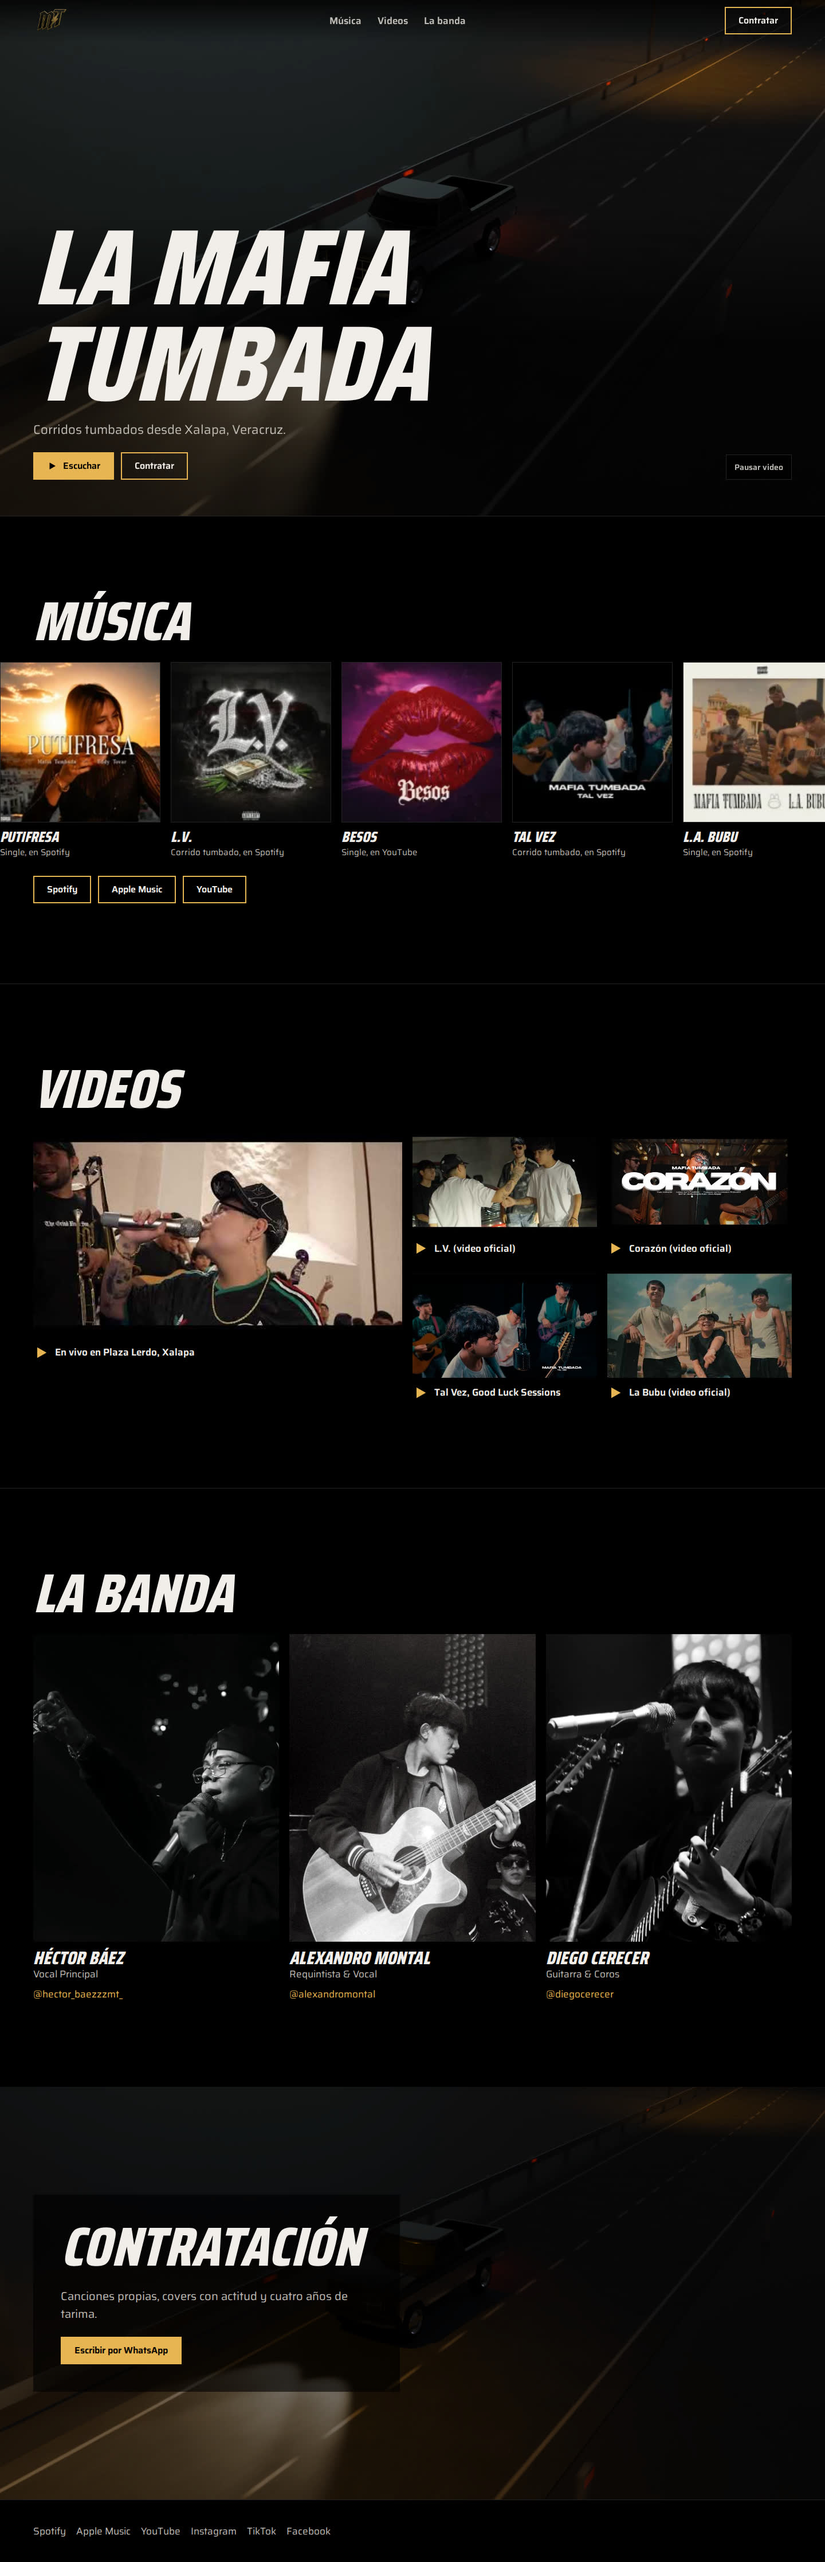
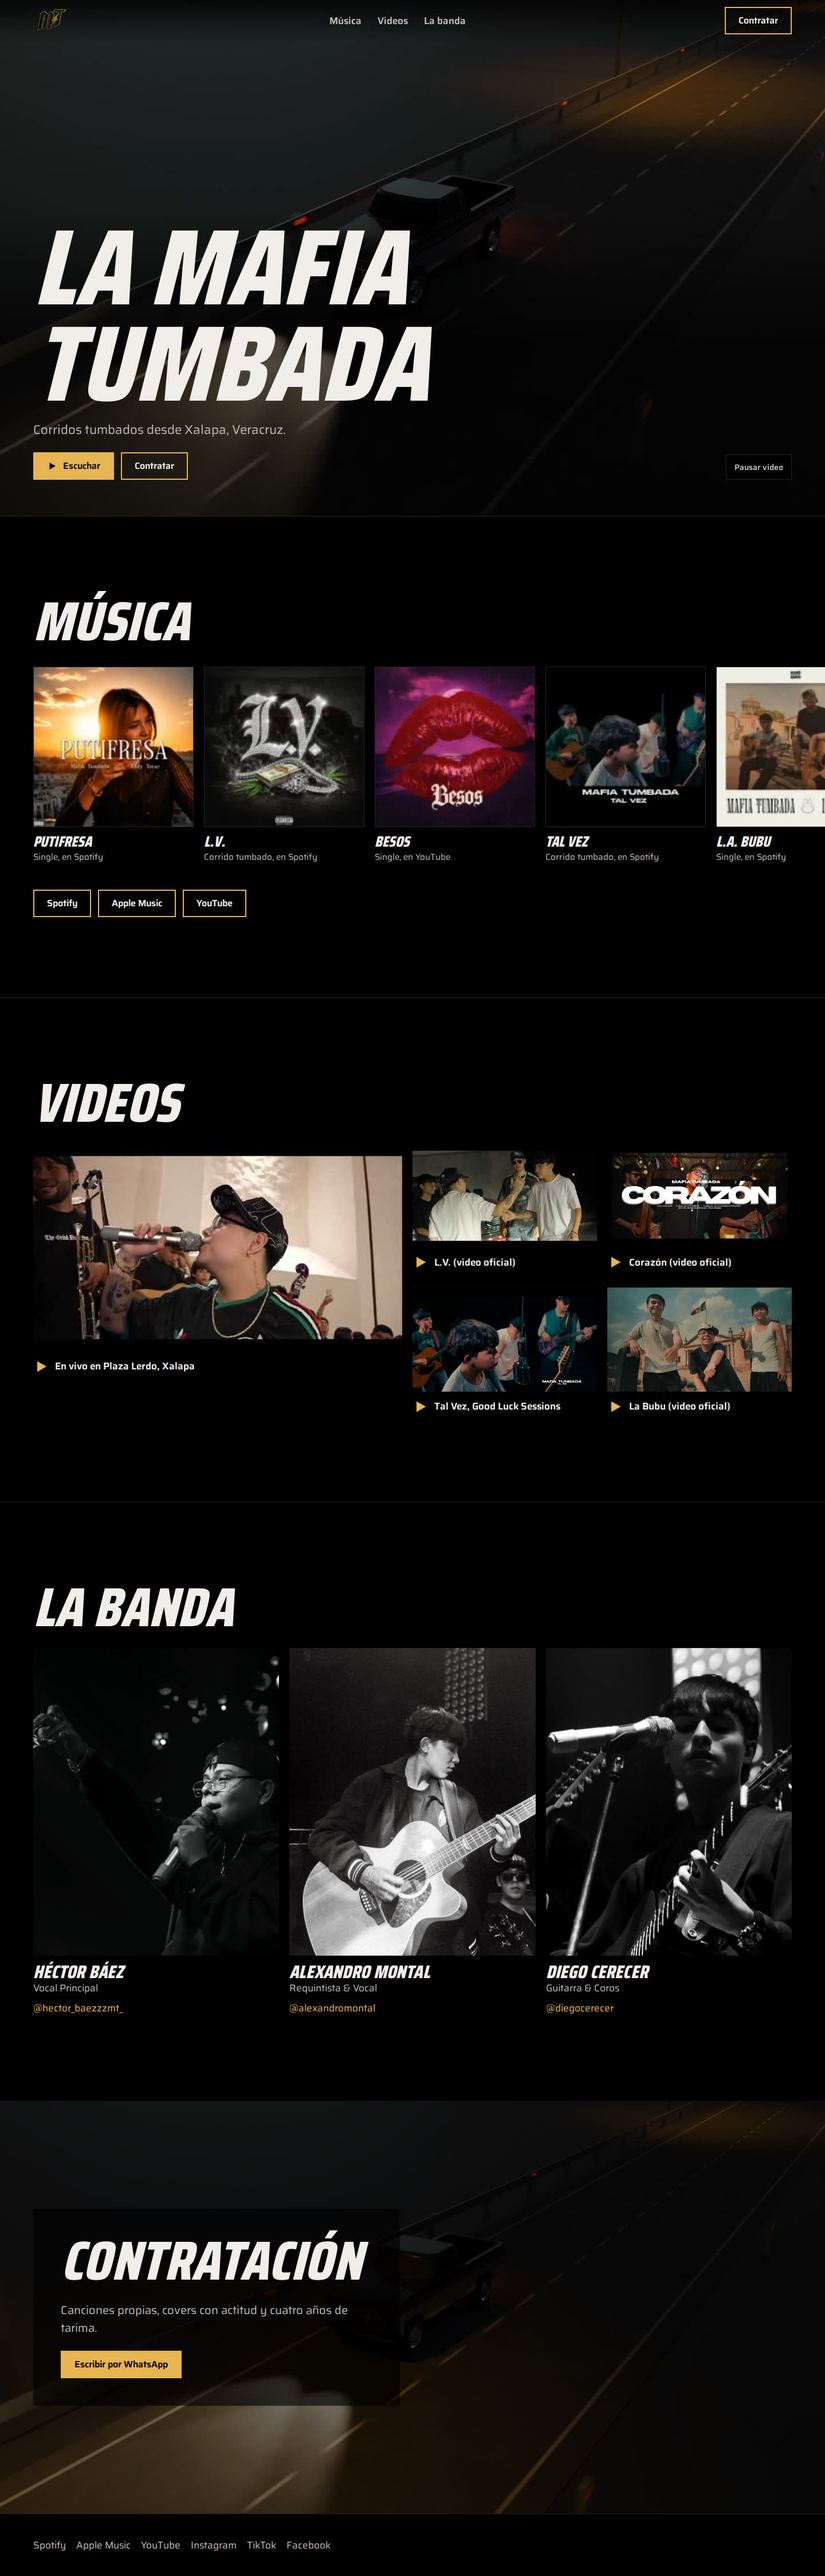
fix(sitio): anillo de foco completo en la tira y encabezado sólido al bajar
El pase de WebKit en Mac encontró dos fallas. ul[role=list] anulaba el padding de .tira
(ahora :where), así que el anillo se recortaba; la tira lleva 8 px arriba y
scroll-padding. El encabezado era transparente sobre el inicio: ahora es sólido pasado
el tope, sin transición. Capturas antes/después y revisar en docs/design.

Claude-Session: https://claude.ai/code/session_01JDrAzBhFc9BRYoTUS7kATz

diff --git a/docs/design/build-report.md b/docs/design/build-report.md
@@ -37,3 +37,15 @@ bg-measure measures text over images. States matrix: `check-matrix.py` 0 errors;
 
 Mac WebKit pass brief: `docs/queue/2026-11-12-mto-a-carretera-mac-webkit.md`. The `mac-webkit-pass` skill isn't
 installed in this environment, so the brief copies the shape of the 11-09 truck brief.
+
+## Mac WebKit fixes (2026-11-12, after the first pass said NO)
+- The focus ring on the release cards was clipped by the strip. The cause: `ul[role='list'] { padding: 0 }` outranked
+  `.tira`, so the strip had no gutter and the focused card sat at x = 0. That rule is now `:where(...)`. The strip
+  gets 8 px of top padding and `scroll-padding-inline: var(--gutter)`, so the 3 px ring plus its 3 px offset shows whole.
+- The header was transparent over the hero at scrollY 693 (390). Past 8 px of scroll it is now solid `--bg` with a
+  `--line` rule, switched without a transition (revisar's motion-spec fails a `background-color` transition).
+- Before and after shots are in `docs/design/webkit-fixes/` (`antes-*`, `despues-*`).
+```
+revisar.sh web  exit 0, 0 FAIL · 390: overflow 0, tap 0, contrast 0, CLS 0.000, weight 1.55 MB · 1440: CLS 0.016
+slop-check.py src  0 FAIL
+```
